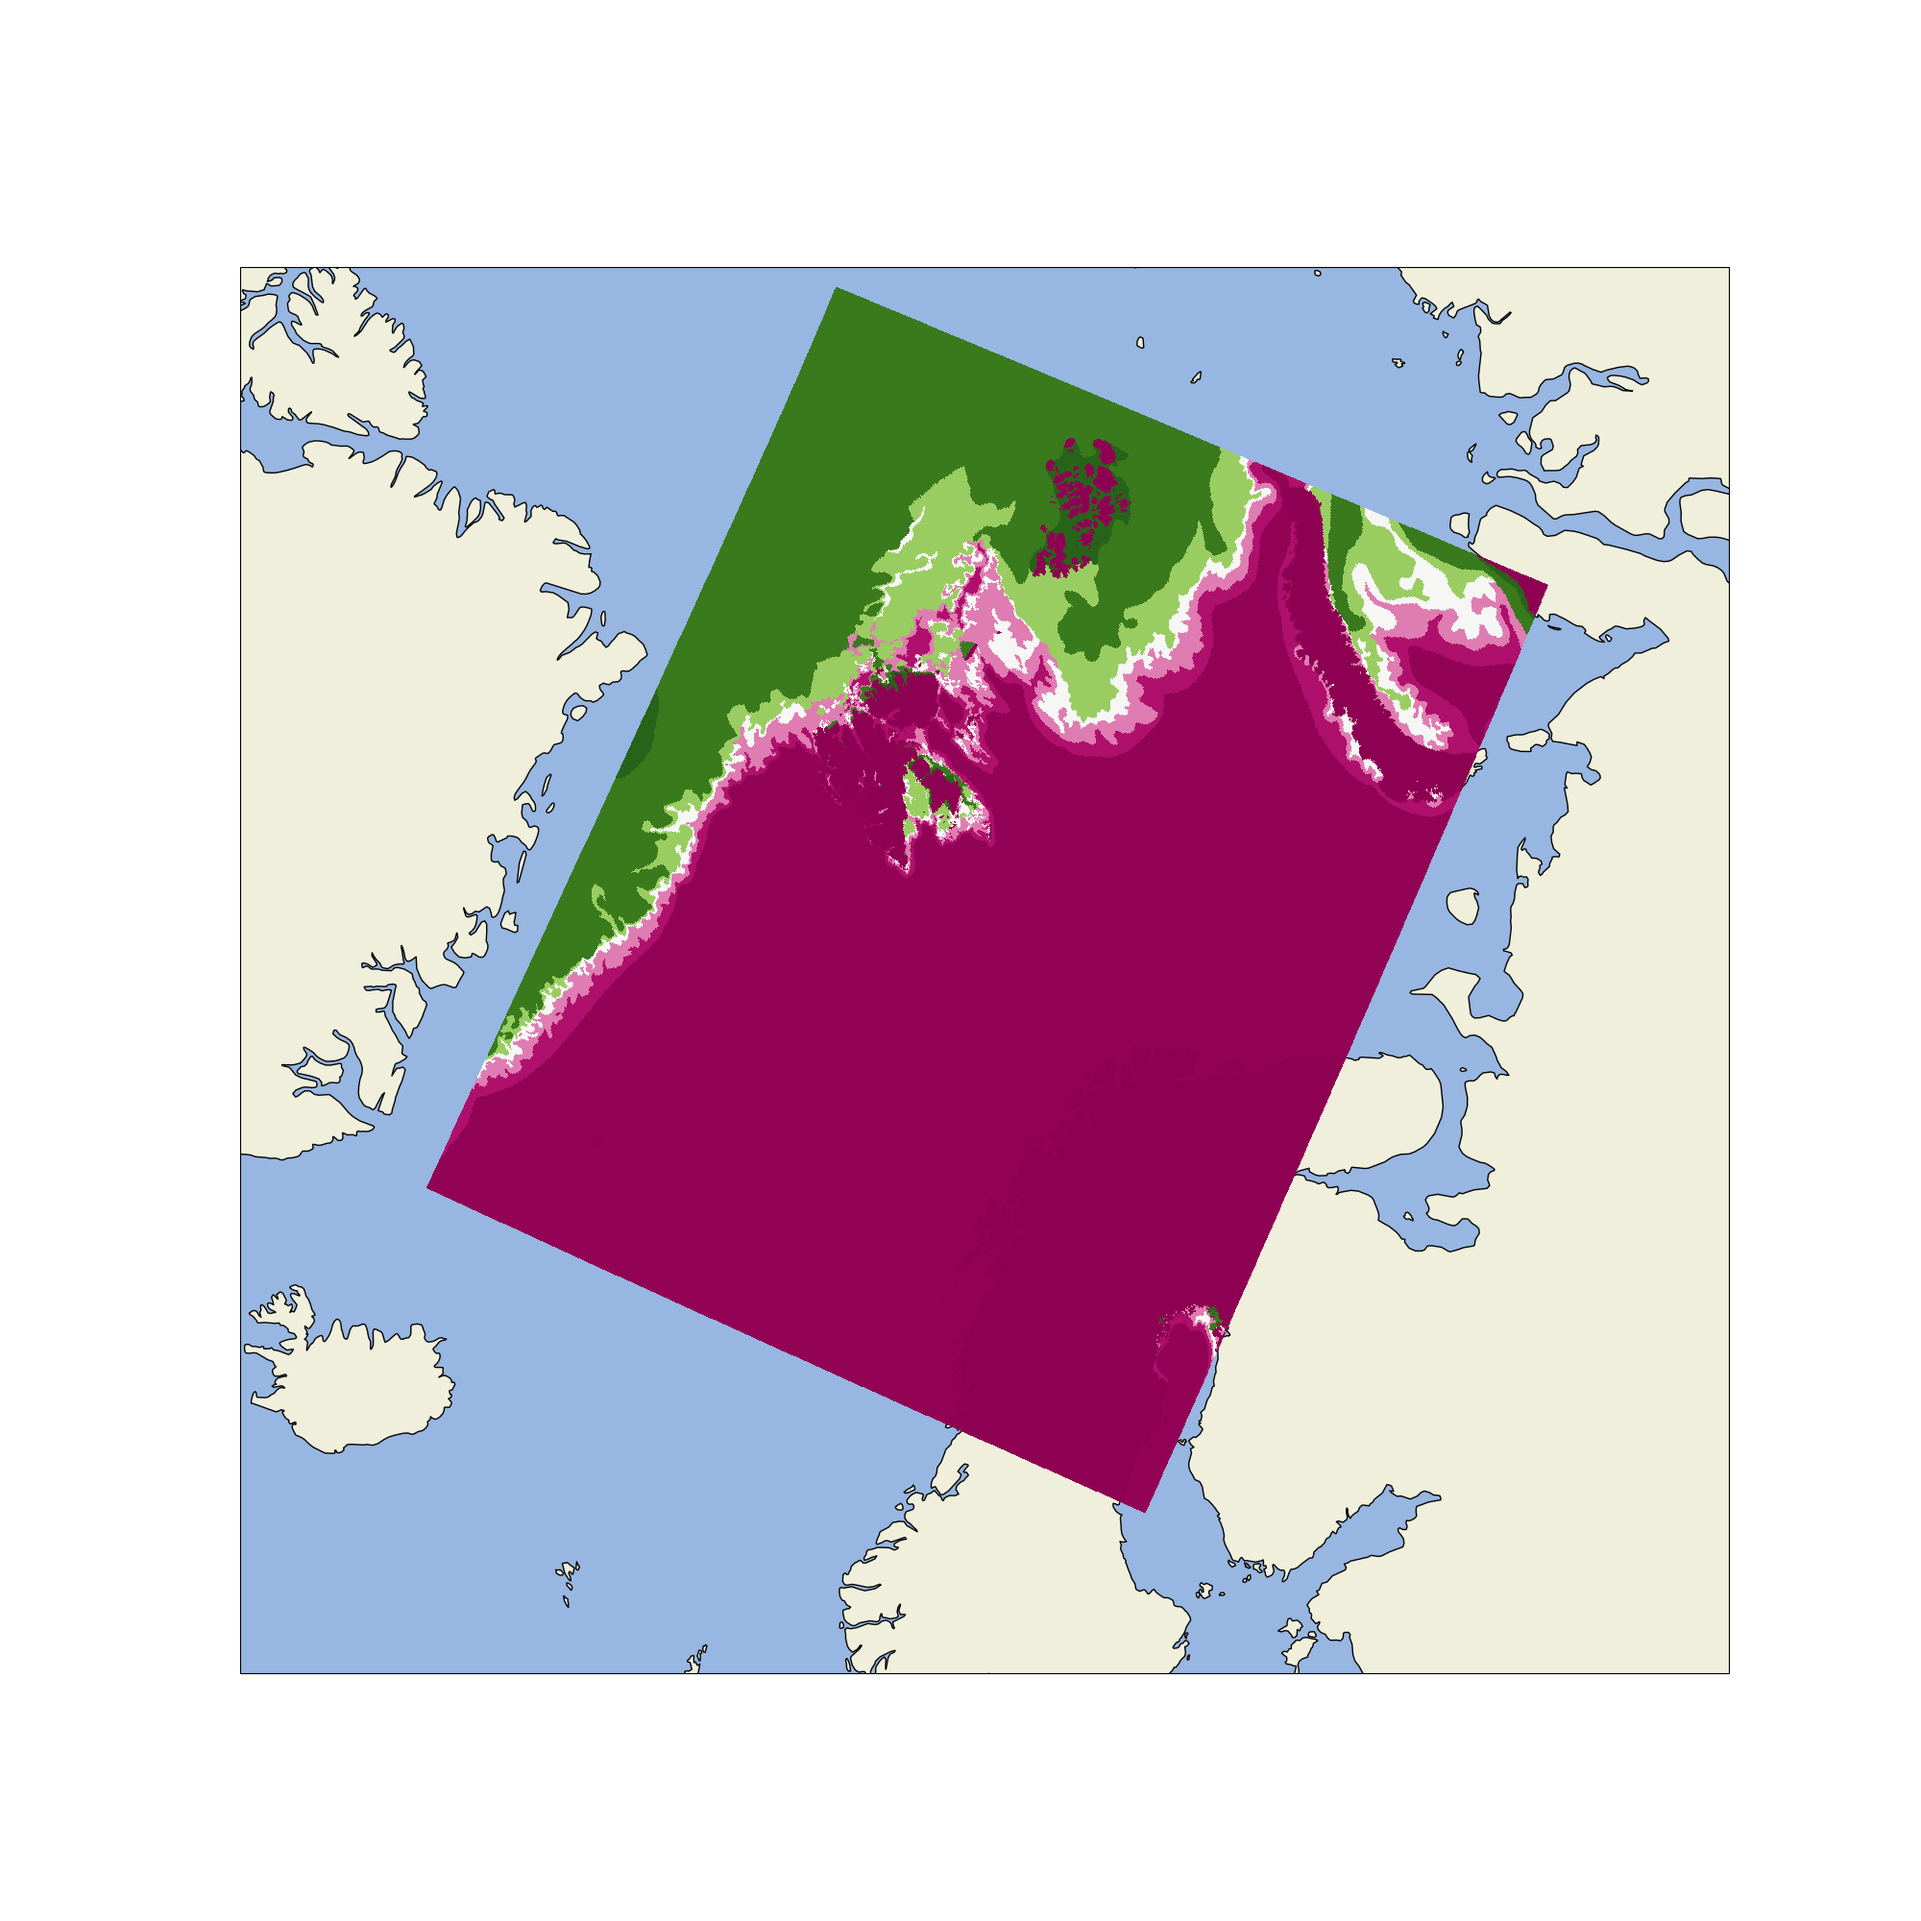
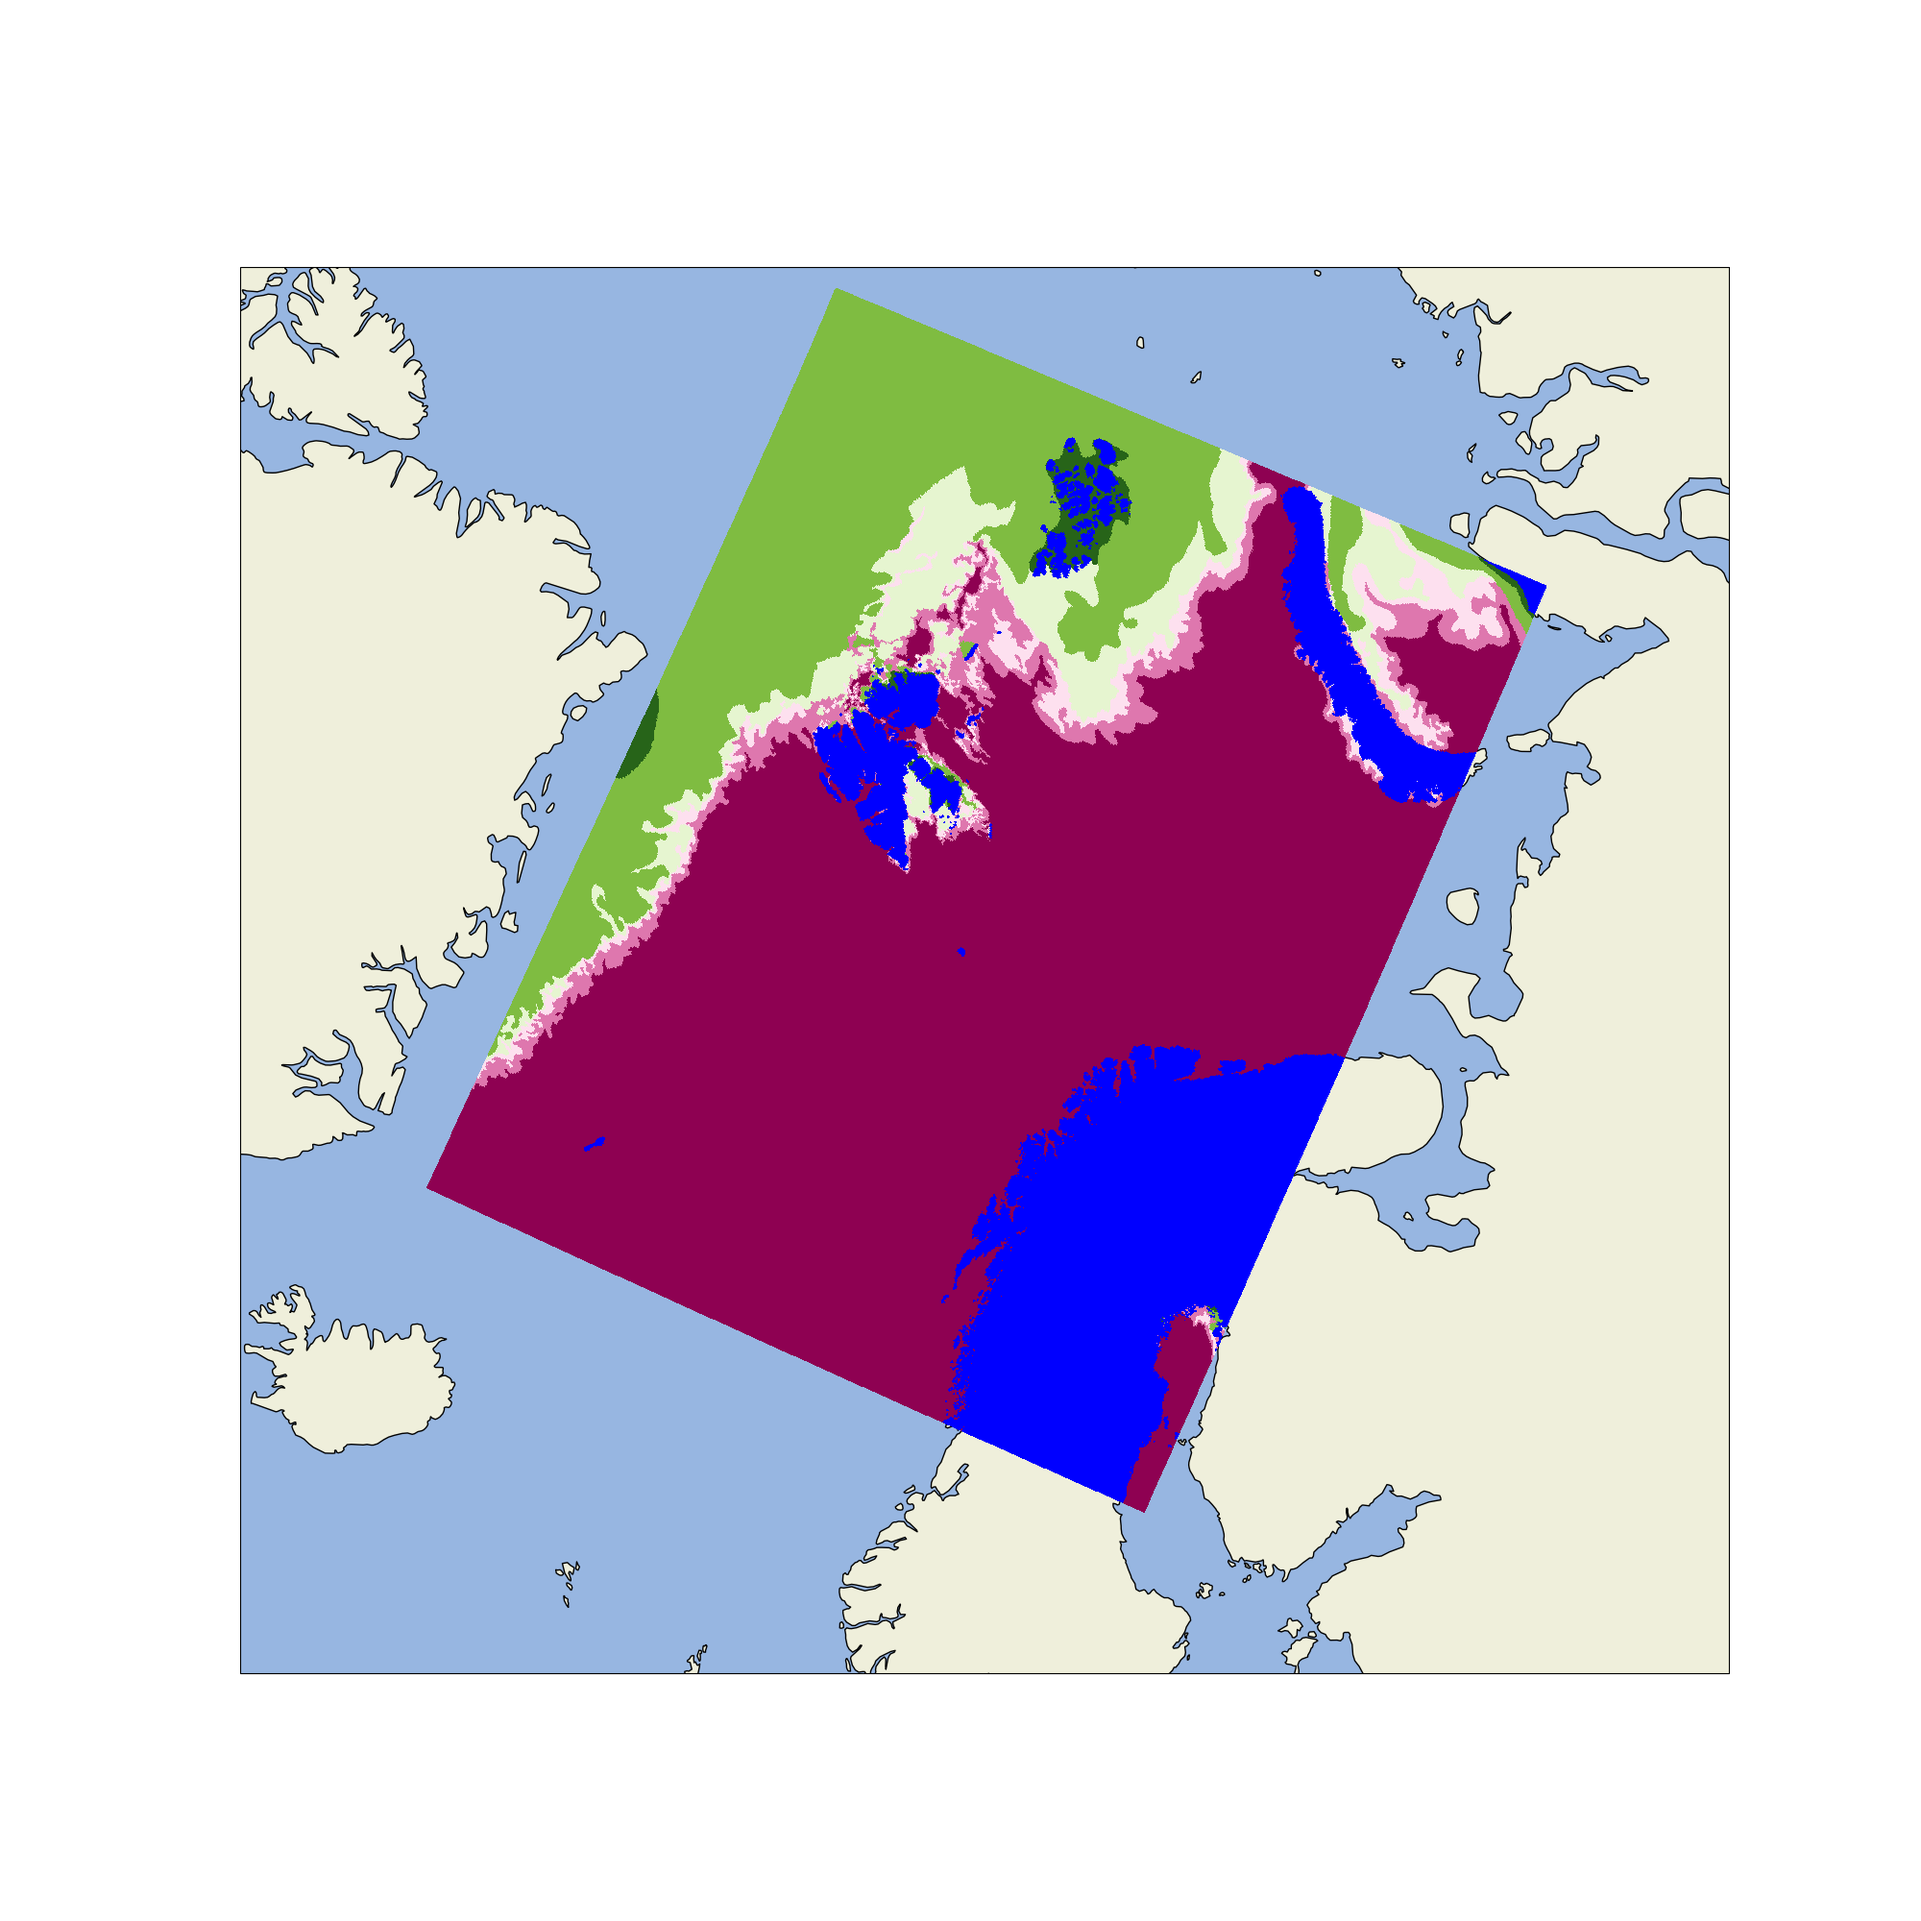
pushing before new regrid pipeline

Changed region(s): [[0.217, 0.155, 0.806, 0.589], [0.496, 0.527, 0.713, 0.775]]

diff --git a/PrepareDataset/createHDF.py b/PrepareDataset/createHDF.py
@@ -8,11 +8,17 @@ from calendar import monthrange
 from netCDF4 import Dataset
 from scipy.interpolate import NearestNDInterpolator
 
+
 from rotate_wind_from_UV_to_xy import rotate_wind_from_UV_to_xy
 
 
 def interpolate_invalid(field):
     """NN interpolation of NaN areas
+        the input sic is a masked array, but also contains nan values
+        The nan values represent the out of bounds triangle in upper left corner
+        The array-mask mask the land, after interpolation, the returned array
+        is unmasked, with previous masked values attaining a value of ~10e34.
+        These values are set to (-1), an out of bounds value which conveys that they are invalid with regards to the concentration range
 
     Args:
         field (array): 2d field to apply interpolation
@@ -24,6 +30,16 @@ def interpolate_invalid(field):
     interp = NearestNDInterpolator(np.transpose(mask), field[mask])
     interp_field = interp(*np.indices(field.shape))
     return np.where(interp_field > 100., -1, interp_field)
+
+def onehot_encode_sic(sic):
+    fast_ice = np.where(np.equal(sic, 100.), 5, 0)
+    vcd_ice = np.where(np.logical_and(np.greater_equal(sic, 90.), np.less(sic,100.)), 4, 0)
+    cd_ice = np.where(np.logical_and(np.greater_equal(sic, 70.), np.less(sic, 90.)), 3, 0)
+    od_ice = np.where(np.logical_and(np.greater_equal(sic, 40.), np.less(sic, 70.)), 2, 0)
+    vod_ice = np.where(np.logical_and(np.greater_equal(sic, 10.), np.less(sic, 40.)), 1, 0)
+
+    return fast_ice + vcd_ice + cd_ice + od_ice + vod_ice
+    
 
 def main():
     # setup data-paths
@@ -71,29 +87,34 @@ def main():
         
         # Open Ice Chart
         nc = Dataset(ic_path, 'r')
-        sic = nc.variables['sic'][:]
+        sic = nc.variables['sic'][:-1,:-1]
+
+        # Process Sea Ice Concentration
+        interpolated_sic = interpolate_invalid(sic[:])
+        onehotencoded_sic = onehot_encode_sic(interpolated_sic)
 
 
         # Open AROME
         nc_a = Dataset(arome_path, 'r')
         nc_a_sfx = Dataset(arome_path_sfx, 'r')
 
-        x = nc_a.variables['x'][:]
-        y = nc_a.variables['y'][:]
-        lat = nc_a.variables['latitude'][:]
-        lon = nc_a.variables['longitude'][:]
+        x = nc_a.variables['x'][:-1]
+        y = nc_a.variables['y'][:-1]
+        lat = nc_a.variables['latitude'][:-1,:-1]
+        lon = nc_a.variables['longitude'][:-1,:-1]
         t2m = nc_a.variables['air_temperature_2m'][:]
         uwind = nc_a.variables['x_wind_10m'][:]
         vwind = nc_a.variables['y_wind_10m'][:]
-        sst = nc_a_sfx.variables['SST'][0, ...]
+        sst = nc_a_sfx.variables['SST'][0, :-1, :-1]
 
         # Write to HDF5
         outfile[f"lat"] = lat[:]
         outfile[f"lon"] = lon[:]
-        outfile[f"oobmask"] = np.where(np.isnan(sic), 1, 0)
-        outfile[f"sic"] = interpolate_invalid(sic[:])
+        outfile[f"oobmask"] = np.where(np.isnan(sic), 1, 0) #Out of Bounds mask based on original sic array, where nan represents the out of bounds triangle
+        outfile[f"sic"] = interpolated_sic
+        outfile[f"sic_target"] = onehotencoded_sic
         outfile[f"sst"] = sst
-        outfile[f"lsmask"] = sst.mask.astype(int)
+        outfile[f"lsmask"] = np.where(np.equal(interpolated_sic, -1), 1, 0) # Create land sea mask based on land pixels from IceChart after interpolation
 
         # Three daily AA means
         for day in range(3):
@@ -101,10 +122,10 @@ def main():
             start = day*24
             stop = start + 24 if day != 2 else None
 
-            outfile[f"{key}/t2m"] = np.mean(t2m[start:stop, 0, :, :], axis=0)
+            outfile[f"{key}/t2m"] = np.mean(t2m[start:stop, 0, :-1, :-1], axis=0)
 
             #Rotate U and V wind to x,y
-            xwind, ywind = rotate_wind_from_UV_to_xy(x, y, nc_a.variables['projection_lambert'].proj4, np.mean(uwind[start:stop, 0, :, :], axis=0), np.mean(vwind[start:stop, 0, :, :], axis=0))
+            xwind, ywind = rotate_wind_from_UV_to_xy(x, y, nc_a.variables['projection_lambert'].proj4, np.mean(uwind[start:stop, 0, :-1, :-1], axis=0), np.mean(vwind[start:stop, 0, :-1, :-1], axis=0))
 
             outfile[f"{key}/xwind"] = xwind
             outfile[f"{key}/ywind"] = ywind
@@ -115,7 +136,7 @@ def main():
         nc_a.close()
         nc_a_sfx.close()
 
-
+        exit()
 
 if __name__ == "__main__":
     main()

diff --git a/SimpleUNET/dataset.py b/SimpleUNET/dataset.py
@@ -1,0 +1,68 @@
+import h5py
+import os
+import glob
+
+import numpy as np
+
+from tensorflow import keras
+
+
+class HDF5Generator(keras.utils.Sequence):
+    def __init__(self, data, batch_size, key= 'day0', constant_fields = ['sst', 'lsmask'], dated_fields = ['t2m', 'xwind', 'ywind'], target = 'sic_target', num_target_classes = 6, seed=0):
+        self.seed = seed
+
+        self.data = data
+        self.rng = np.random.default_rng(self.seed)
+        self.batch_size = batch_size
+        self.key = key
+        self.constant_fields = constant_fields
+        self.dated_fields = dated_fields
+        self.target = target
+        self.num_target_classes = num_target_classes
+        self.n_fields = len(self.constant_fields) + len(self.dated_fields)
+        self.dim = (948,738)  # AROME ARCTIC domain (even numbers)
+
+        self.rng.shuffle(self.data)
+
+    def __len__(self):
+        # Get the number of minibatches
+        return int(np.floor(self.data.size / self.batch_size))
+
+    def on_epoch_end(self):
+        self.rng.shuffle(self.data)
+
+    def __getitem__(self, index):
+        # Get the minibatch associated with index
+        samples = self.data[index*self.batch_size:(index+1)*self.batch_size]
+        X, y = self.__generate_data(samples)
+        return X, y
+        
+    def __generate_data(self, samples):
+        # Helper function to read data from files
+        X = np.empty((self.batch_size, *self.dim, self.n_fields))
+        y = np.empty((self.batch_size, *self.dim, self.num_target_classes))
+
+        for idx, sample in enumerate(samples):
+            with h5py.File(sample, 'r') as hf:
+                for i, field in enumerate(self.constant_fields):
+                    X[idx, ..., i] = hf[f"{field}"][:]
+
+                for j, field in enumerate(self.dated_fields, start = i+1):
+                    X[idx, ..., j] = hf[f"{self.key}"][f"{field}"][:]
+
+                y[idx] = keras.utils.to_categorical(hf[f"{self.target}"][:])
+
+        return X, y
+
+
+
+
+if __name__ == "__main__":
+    path_data = "/lustre/storeB/users/arefk/MScThesis_AreKvanum2022_SeaIceML/PrepareDataset/Data/"
+
+    data_2019 = np.array(sorted(glob.glob(f"{path_data}2019/**/*.hdf5", recursive=True)))
+    data_2020 = np.array(sorted(glob.glob(f"{path_data}2020/**/*.hdf5", recursive=True)))
+    data_2021 = np.array(sorted(glob.glob(f"{path_data}2021/**/*.hdf5", recursive=True)))
+    
+    train_generator = HDF5Generator(data_2019, 1)
+    X, y = train_generator[0]

diff --git a/PrepareDataset/validateHDF.py b/PrepareDataset/validateHDF.py
@@ -9,13 +9,13 @@ from cartopy import crs as ccrs
 from cartopy import feature as cfeature
 
 def main():
-    path = "/lustre/storeB/users/arefk/MScThesis_AreKvanum2022_SeaIceML/PrepareDataset/Data/2019/01/"
+    path = "/lustre/storeB/users/arefk/MScThesis_AreKvanum2022_SeaIceML/PrepareDataset/Data/2021/06/"
     path_figures = "/lustre/storeB/users/arefk/MScThesis_AreKvanum2022_SeaIceML/PrepareDataset/figures/"
 
     map_proj = ccrs.NorthPolarStereo()
     data_proj = ccrs.PlateCarree()
 
-    h5file = glob.glob(f"{path}*.hdf5")[0]
+    h5file = sorted(glob.glob(f"{path}*.hdf5"))[5]
     
     f = h5py.File(h5file, 'r')
 
@@ -26,6 +26,17 @@ def main():
     lsmask = f['lsmask'][:]
     oobmask = f['oobmask'][:]
     xwind = f['day1']['xwind'][:]
+    sic_onehot = f['sic_target']
+
+    """
+    print(lat.shape)
+    print(lon.shape)
+    print(sic.shape)
+    print(t2m.shape)
+    print(lsmask.shape)
+    print(oobmask.shape)
+    print(xwind.shape)
+    """
 
     fig = plt.figure(figsize=(20,20))
     ax = plt.axes(projection=map_proj)
@@ -36,11 +47,12 @@ def main():
 
     # ax.pcolormesh(lon, lat, t2m, transform = data_proj, zorder=3, alpha=.4)
     # ax.pcolormesh(lon, lat, xwind, transform = data_proj, zorder=3, alpha=.4)
-    ax.pcolormesh(lon, lat, sic, transform=data_proj, zorder=2, cmap=plt.colormaps['PiYG'])
+    # ax.pcolormesh(lon, lat, sic, transform=data_proj, zorder=2, cmap=plt.colormaps['PiYG'])
+    ax.pcolormesh(lon, lat, sic_onehot, transform=data_proj, zorder=2, cmap=plt.colormaps['PiYG'])
     # ax.pcolormesh(lon, lat, oobmask, transform=data_proj, zorder=2, cmap=plt.colormaps['PiYG'])
-    # ax.pcolormesh(lon, lat, lsmask, transform=data_proj, zorder=2, cmap=plt.colormaps['PiYG'])
+    ax.pcolormesh(lon, lat, np.ma.masked_array(lsmask, lsmask < 1), transform=data_proj, zorder=3, cmap='winter')
 
-    plt.savefig(f"{path_figures}visual_validate_20190102.png")
+    plt.savefig(f"{path_figures}visual_validate_20210608.png")
 
 
 
